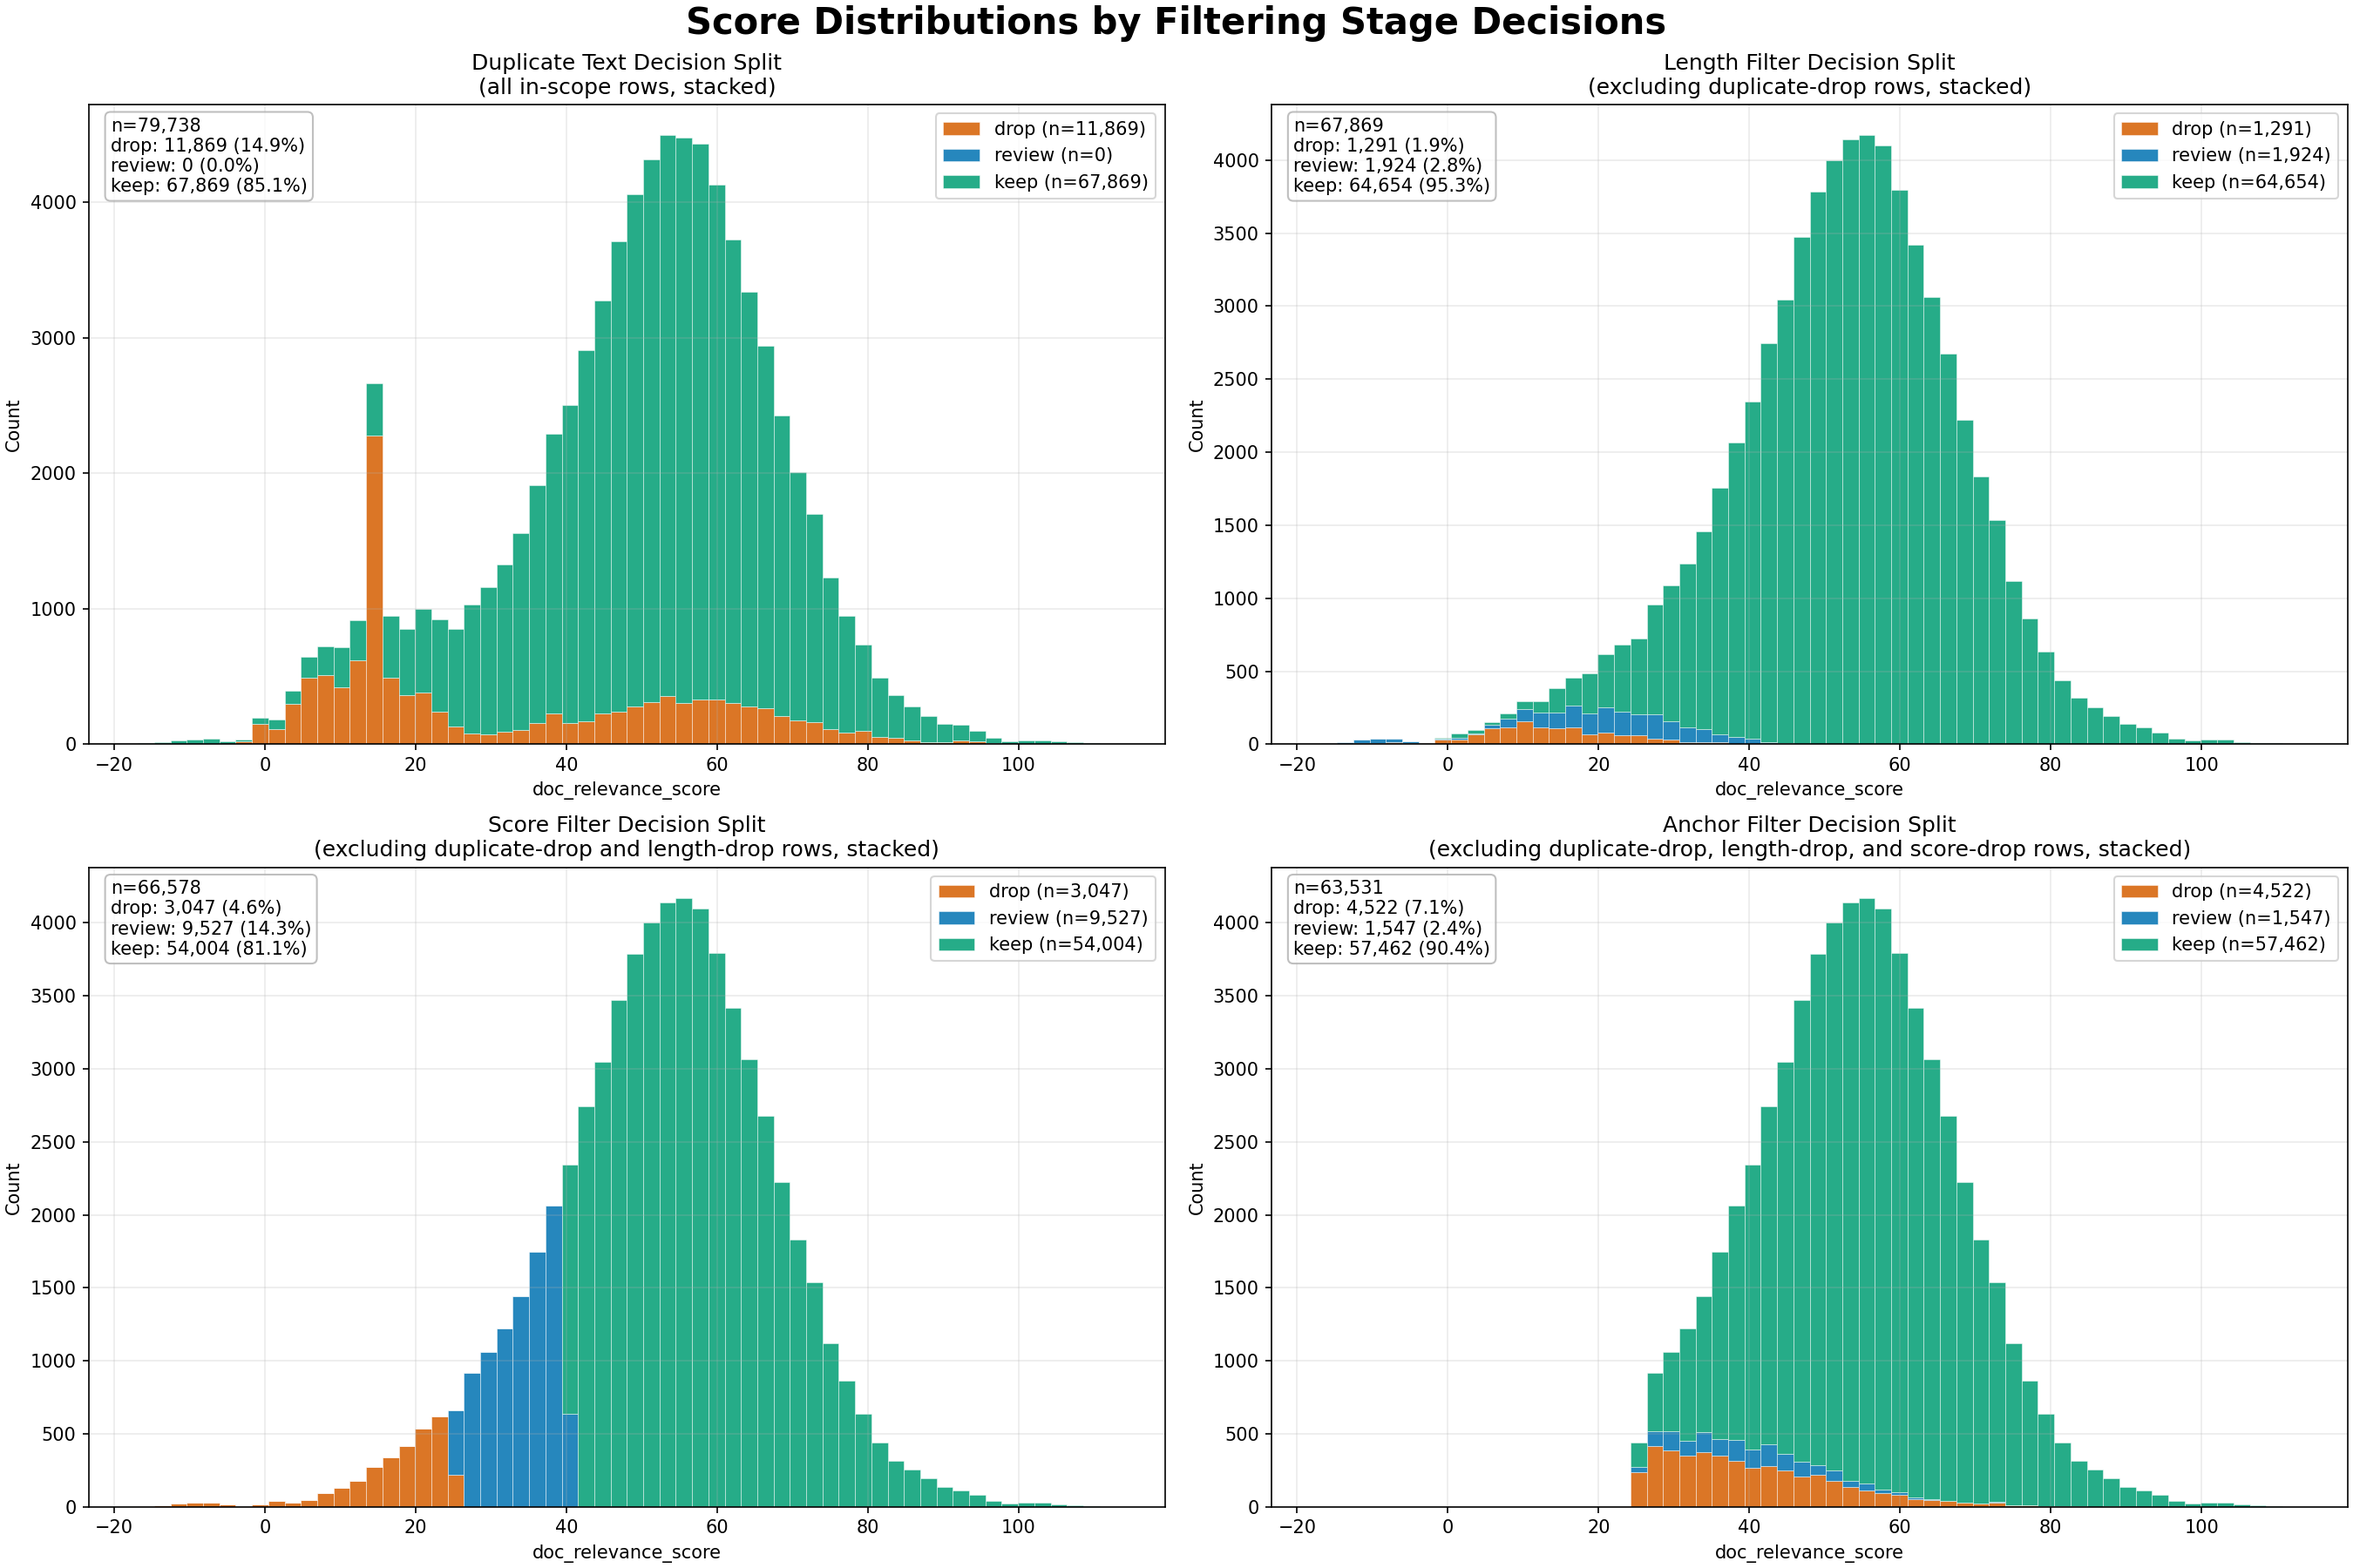
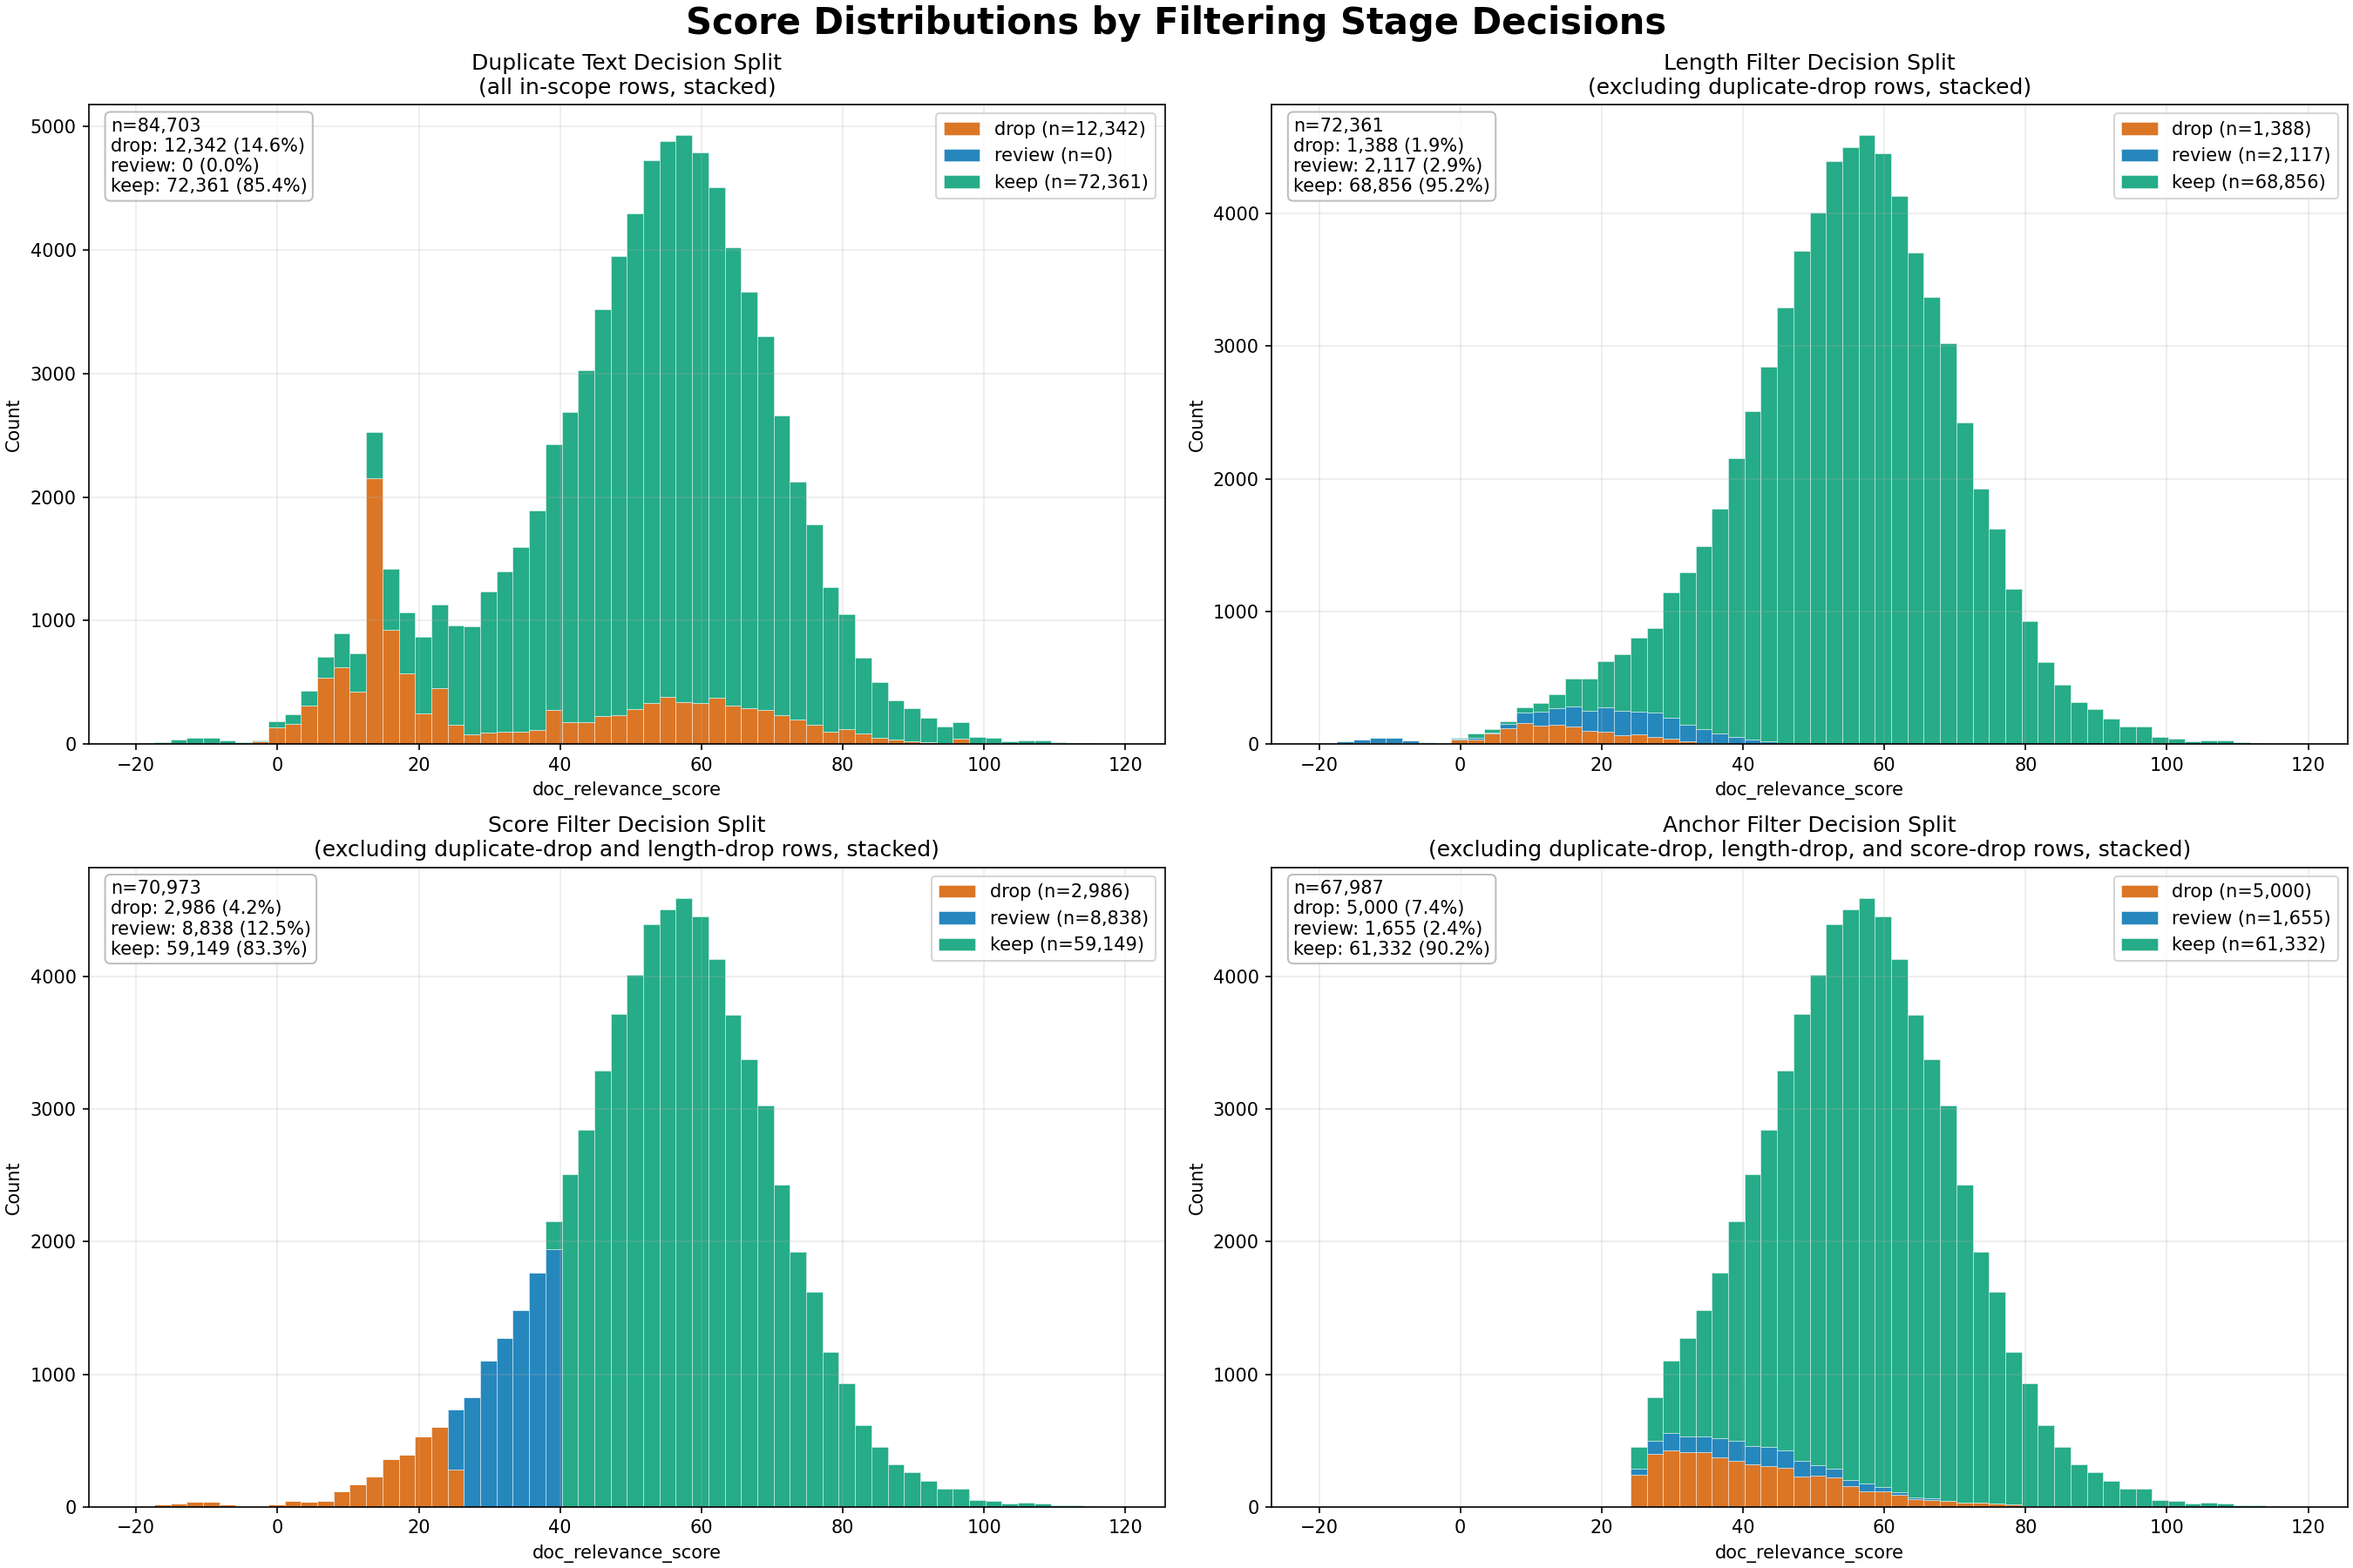
Improve GDELT consolidation UX and preprocessing docs

diff --git a/venezuela-us-gdelt-discourse/data-collection/consolidate_yearly.py b/venezuela-us-gdelt-discourse/data-collection/consolidate_yearly.py
@@ -1,5 +1,6 @@
 import argparse
 from pathlib import Path
+import sys
 import pandas as pd
 
 KEY_COLS = [
@@ -18,6 +19,38 @@ KEY_COLS = [
 
 CORE_COLS = KEY_COLS + ["Title", "Text", "Scrape_Status", "Error_Details"]
 SUCCESS_STATUS = {"Success", "Success (Archived)"}
+
+
+def print_progress(current: int, total: int, year: int | None = None, width: int = 36) -> None:
+    """Render a simple in-place progress bar for yearly processing."""
+    if total <= 0:
+        return
+
+    ratio = max(0.0, min(1.0, current / total))
+    filled = int(round(width * ratio))
+    bar = "#" * filled + "-" * (width - filled)
+    pct = ratio * 100
+    year_label = f" | year {year}" if year is not None else ""
+
+    sys.stdout.write(f"\rProgress{year_label}: [{bar}] {current}/{total} ({pct:5.1f}%)")
+    sys.stdout.flush()
+
+    if current >= total:
+        sys.stdout.write("\n")
+
+
+def print_rotated_audit(audit_df: pd.DataFrame) -> None:
+    """Print audit diagnostics in a readable year-by-year vertical layout."""
+    if audit_df.empty:
+        return
+
+    metric_cols = [col for col in audit_df.columns if col != "Year"]
+    label_width = max(len(col) for col in metric_cols)
+
+    for _, row in audit_df.iterrows():
+        print(f"\nYear {int(row['Year'])}")
+        for col in metric_cols:
+            print(f"  {col:<{label_width}} : {row[col]}")
 
 
 def parse_years(expr: str) -> list[int]:
@@ -259,6 +292,7 @@ def main() -> None:
         help="CSV filename or absolute path for year-level audit stats.",
     )
     parser.add_argument("--dry-run", action="store_true", help="Run audit and counts without writing output files.")
+    parser.add_argument("--no-progress", action="store_true", help="Disable progress bar output.")
     args = parser.parse_args()
 
     base_dir = Path(args.base_dir)
@@ -286,10 +320,17 @@ def main() -> None:
     total_rows = 0
     total_problematic = 0
 
-    for year in years:
+    if not args.no_progress:
+        print_progress(0, len(years))
+
+    for i, year in enumerate(years, start=1):
+        if not args.no_progress:
+            sys.stdout.write("\n")
         orig_file = base_dir / f"ven_usa_{year}.csv"
         if not orig_file.exists():
             print(f"Skipping {year}: missing {orig_file.name}")
+            if not args.no_progress:
+                print_progress(i, len(years), year)
             continue
 
         print(f"Processing year {year}...")
@@ -312,6 +353,9 @@ def main() -> None:
                 )
                 wrote_problematic = True
 
+        if not args.no_progress:
+            print_progress(i, len(years), year)
+
     audit_df = pd.DataFrame(audit_rows)
 
     if audit_df.empty:
@@ -326,8 +370,8 @@ def main() -> None:
             )
         audit_df.to_csv(audit_path, index=False)
 
-    print("\nAudit summary by year:")
-    print(audit_df.to_string(index=False))
+    print("\nAudit summary by year (rotated):")
+    print_rotated_audit(audit_df)
     print("\nTotals")
     print(f"Consolidated rows: {total_rows}")
     print(f"Problematic rows:  {total_problematic}")

diff --git a/venezuela-us-gdelt-discourse/preprocessing/README.md b/venezuela-us-gdelt-discourse/preprocessing/README.md
@@ -2,39 +2,129 @@
 
 This folder contains the full preprocessing workflow for `data/gdelt_scraped.csv`.
 
-The orchestrator script is:
+The orchestrator is:
 
 `run_preprocessing_pipeline.py`
 
-## What The Pipeline Produces
+It runs **7 scripts in fixed order**. The goal is to transform scraped URL text into:
 
-- `url_lookup*.csv`: one row per canonical URL (with scraped text, tokens, and relevance score).
-- `text_relevance_tokens*.csv`: ranked token relevance table.
-- `url_filter_eval*.csv`: row-level filtering decisions and reasons.
-- `url_filter_summary_counts*.csv`: aggregated decision counts by stage.
-- `filter_samples*/`: QA samples from each filtering stage.
-- `filter_stage_score_histograms*.png`: score distributions by filter stage decisions.
+- URL-level lookup features (`url_lookup*.csv`)
+- token relevance weights (`text_relevance_tokens*.csv`)
+- row-level filtering decisions (`url_filter_eval*.csv`)
+- QA summaries/samples/plots for filter decisions
 
 ## Run
 
-From this folder:
+From `venezuela-us-gdelt-discourse/preprocessing`:
 
 ```powershell
 python .\run_preprocessing_pipeline.py ..\data\gdelt_scraped.csv --force-retokenize --require-success-status
 ```
 
+## Exactly What The Orchestrator Does (7 Steps)
 
+When you run the orchestrator, you should see these headings in the console:
+
+### Step 1/7: Build URL Index
+
+Script: `build_url_index.py`
+
+What it does:
+- Canonicalizes `SourceURL`.
+- Assigns stable `url_id` values.
+- Reuses existing IDs from `url_lookup.csv` when URL canonical forms already exist.
+- Assigns new IDs only for unseen canonical URLs.
+- Upserts `url_lookup.csv` (one row per canonical URL, with representative `Title`/`Text`/status).
+
+### Step 2/7: Tokenize URL Lookup
+
+Script: `tokenize_url_lookup.py`
+
+What it does:
+- Tokenizes `Text` in `url_lookup.csv` and writes JSON token arrays into `Tokens`.
+- Default behavior is incremental (tokenize rows missing tokens only).
+- `--force-retokenize` retokenizes all non-empty text rows.
+
+### Step 3/7: Build Duplicate Filter Eval (Early)
+
+Script: `build_duplicate_filter_eval.py`
+
+What it does:
+- Builds early duplicate-text diagnostics from in-scope rows.
+- Writes/updates `url_filter_eval*.csv` with duplicate hash, cluster size, and duplicate decision.
+- Writes duplicate-oriented summary counts to `url_filter_summary_counts*.csv`.
+
+### Step 4/7: Build Token Relevance Scores
+
+Script: `build_text_relevance_tokens.py`
+
+What it does:
+- Uses tokenized documents to compute relevance scores per token.
+- Uses duplicate-filter information from Step 3 (`--exclude-duplicate-drops` in orchestrator).
+- `--require-success-status` restricts scoring input to success-status rows.
+- Writes `text_relevance_tokens*.csv`.
+
+### Step 5/7: Score URL Relevance
+
+Script: `score_url_relevance.py`
+
+What it does:
+- Applies token relevance scores to each URL row in `url_lookup.csv`.
+- Adds document-level scoring columns such as:
+  - `doc_relevance_score`
+  - `doc_relevance_sum`
+  - `doc_relevance_matches`
+  - `doc_token_count`
+
+### Step 6/7: Evaluate Filter Strategy (Full)
+
+Script: `evaluate_filter_strategy.py`
+
+What it does:
+- Recomputes the full filter strategy across in-scope rows:
+  - duplicate decision
+  - length decision
+  - score decision
+  - anchor decision
+  - final decision + reasons
+- Writes/updates `url_filter_eval*.csv` by `url_id` (existing IDs are updated with newly computed values).
+- Rewrites `url_filter_summary_counts*.csv`.
+- Writes stratified QA samples into `filter_samples*/`.
+
+### Step 7/7: Plot Filter Stage Histograms
+
+Script: `plot_filter_stage_score_histograms.py`
+
+What it does:
+- Reads `url_filter_eval*.csv`.
+- Generates score histograms split by stage decisions.
+- Writes `filter_stage_score_histograms*.png`.
+
+## Output Files
+
+- `url_lookup*.csv`: one row per canonical URL with scrape and scoring fields.
+- `text_relevance_tokens*.csv`: token relevance table.
+- `url_filter_eval*.csv`: row-level filter decisions and reason labels.
+- `url_filter_summary_counts*.csv`: aggregate decision counts by stage.
+- `filter_samples*/`: QA sample CSVs by stage/final decision.
+- `filter_stage_score_histograms*.png`: visualization of score distributions by decision.
+
+## Naming Behavior
+
+- If input is the default `..\data\gdelt_scraped.csv`, outputs use base names:
+  - `url_lookup.csv`, `text_relevance_tokens.csv`, `url_filter_eval.csv`, etc.
+- If input is a different file, outputs get a suffix from the input filename stem:
+  - for example `url_lookup_my_input.csv`, `url_filter_eval_my_input.csv`, etc.
 
 ## Notes
 
-- The pipeline is designed to be rerun weekly as `gdelt_scraped.csv` grows.
-- URL indexing and lookup updates are incremental.
-- Tokenization can be forced with `--force-retokenize`.
-- `--require-success-status` limits token-relevance training to successful scrapes.
+- The pipeline is intended to be rerun as `gdelt_scraped.csv` grows.
+- URL-ID assignment is stable and incremental.
+- The input scraped CSV is not overwritten by default; preprocessing artifacts are written in this folder unless explicit output flags are provided.
 
 ## Stage Histogram Example
 
-The default output figure is:
+Default figure:
 
 `filter_stage_score_histograms.png`
 

diff --git a/venezuela-us-gdelt-discourse/data-collection/README.md b/venezuela-us-gdelt-discourse/data-collection/README.md
@@ -1,0 +1,99 @@
+# Data Collection Workflow
+
+This folder contains scripts used to build and consolidate yearly Venezuela-US GDELT scrape files.
+
+## Scripts
+
+- `scrape_by_year.py`: scrapes article `Title`/`Text` from `SourceURL` for one year into `ven_usa_{YEAR}.csv`.
+- `rescue_by_year.py`: retries failed rows through Wayback and writes `ven_usa_{YEAR}_rescued.csv`.
+- `consolidate_yearly.py`: merges yearly original + rescued files into one consolidated output.
+
+## Expected Files
+
+For consolidation of a year `Y`:
+
+- Required: `ven_usa_Y.csv`
+- Optional: `ven_usa_Y_rescued.csv` (needed to apply rescue replacements)
+
+`consolidate_yearly.py` processes years independently, then appends them into a single output file.
+
+## Consolidation Behavior (Important)
+
+The merge is original-first.
+
+- Rows with complete original scrape (`Title` + `Text` + success status) are kept.
+- Rescue data is only copied when original row has both `Title` and `Text` missing.
+- Rescue rows must also be complete and successful (`Success` or `Success (Archived)`).
+- Matching is done by a deterministic key built from event columns + duplicate occurrence index.
+- Audit diagnostics are computed per year:
+  - `RowsReplacedFromRescue`
+  - `PotentialOverwriteRiskRows`
+  - `IndexKeyMismatchRows`
+  - `OriginalKeyDuplicateRows`
+
+Note: this script does not do incremental in-place updates against an already-existing `gdelt_scraped.csv`. It rebuilds output from the selected yearly files.
+
+## Run Commands
+
+Run from the project root (`venezuela-us-gdelt-discourse`) unless noted.
+
+Scrape one year (run from `data/` because script paths are relative):
+
+```powershell
+cd .\data
+python ..\data-collection\scrape_by_year.py 2020
+```
+
+Rescue one year (run from `data/`):
+
+```powershell
+cd .\data
+python ..\data-collection\rescue_by_year.py 2020
+```
+
+Consolidate one year:
+
+```powershell
+python .\data-collection\consolidate_yearly.py --base-dir .\data --years 2020
+```
+
+Dry run (same logic, no files written):
+
+```powershell
+python .\data-collection\consolidate_yearly.py --base-dir .\data --years 2020 --dry-run
+```
+
+Multiple years:
+
+```powershell
+python .\data-collection\consolidate_yearly.py --base-dir .\data --years 2020-2026
+```
+
+Disable progress bar:
+
+```powershell
+python .\data-collection\consolidate_yearly.py --base-dir .\data --years 2020-2026 --no-progress
+```
+
+## Output Files
+
+By default, consolidation writes into `--base-dir`:
+
+- `gdelt_scraped.csv`
+- `problematic_rows.csv`
+- `consolidation_audit.csv`
+
+## Example: 2020 Consolidation
+
+Example run summary:
+
+- `OriginalRows`: `17881`
+- `RowsReplacedFromRescue`: `5353`
+- `PotentialOverwriteRiskRows`: `0`
+- `IndexKeyMismatchRows`: `0`
+
+Files written:
+
+- `data/gdelt_scraped.csv`
+- `data/problematic_rows.csv`
+- `data/consolidation_audit.csv`
